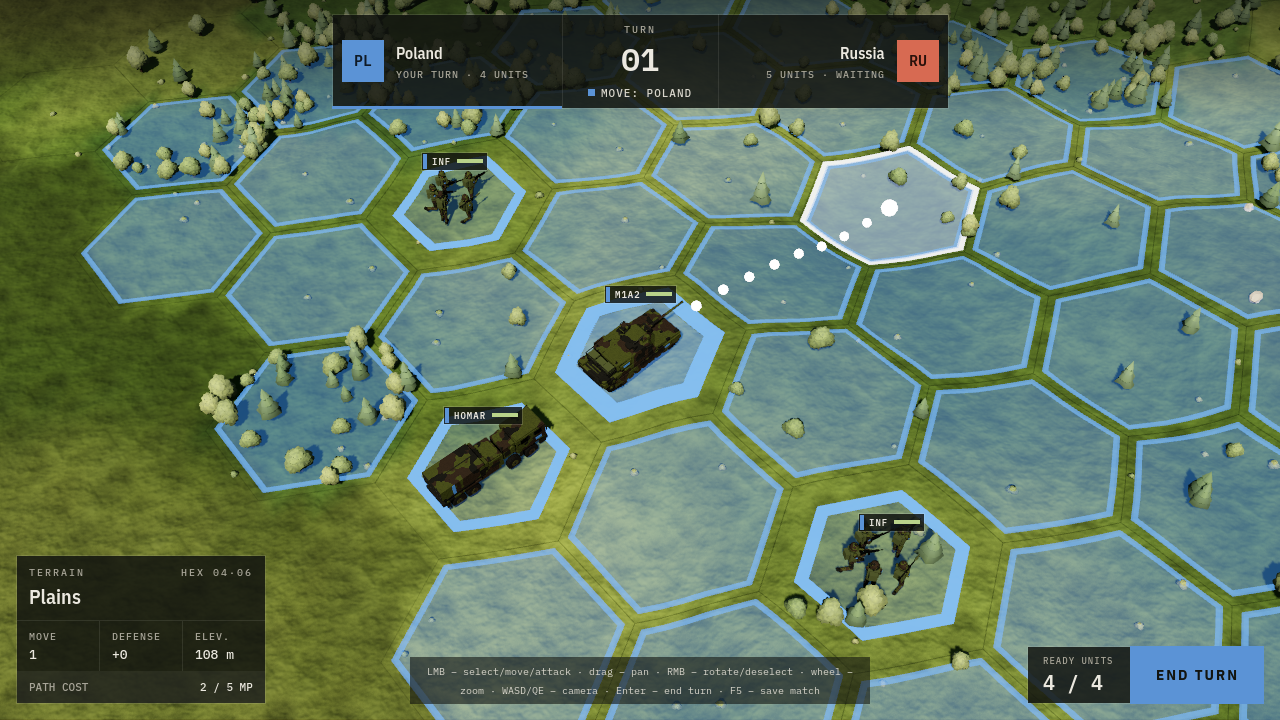
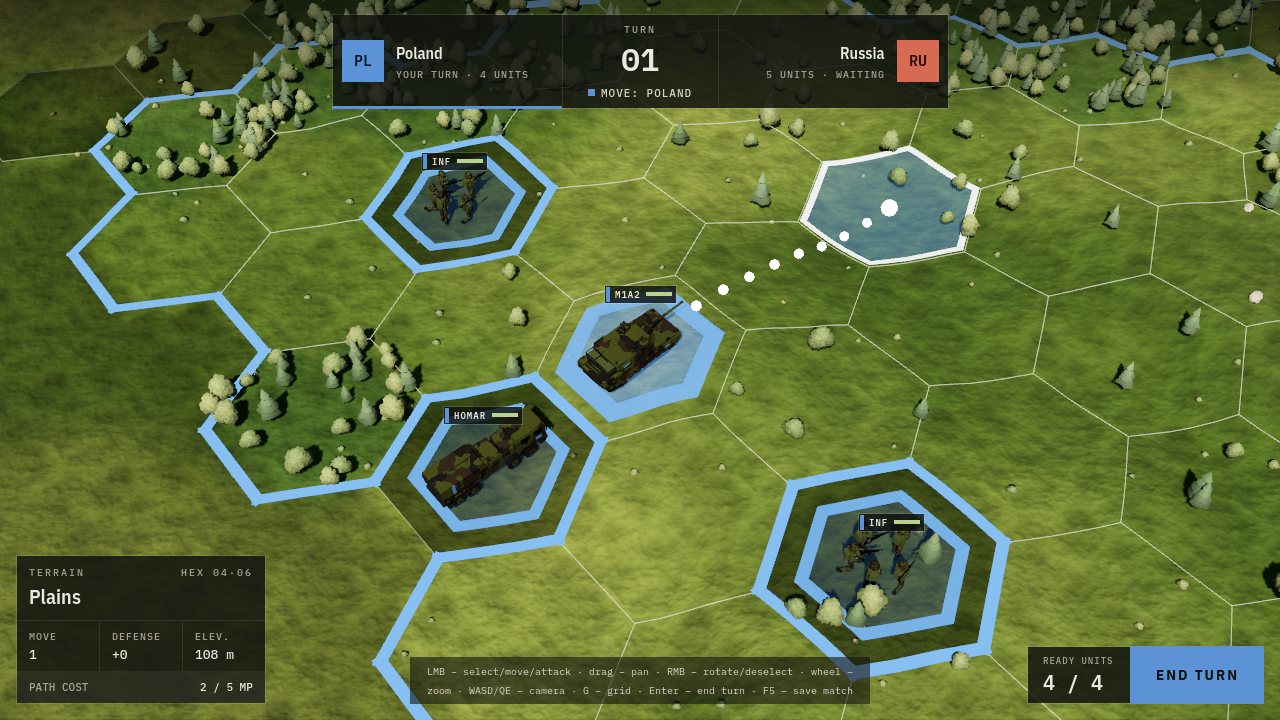
TASK-049: reach outline, outside dim, hover-only fill, faint fading grid (G toggle); playtested, done

diff --git a/docs/tasks/TASK-049-overlay-readability.md b/docs/tasks/TASK-049-overlay-readability.md
@@ -1,6 +1,6 @@
 # TASK-049: Overlay readability – reach outline, dim outside, hover-only fill, faint fading grid
 
-- **Status**: ready
+- **Status**: done
 - **Layers**: presentation (`map_view.gd`, `overlay_geometry.gd`, `unit_view.gd` marker values, `battle_controller` key), tests
 - **Depends on**: – (TASK-017 overlays and the TASK-011 range outline are done). First task of the realism track (see BACKLOG "Visual realism").
 - **Model**: sonnet
@@ -28,15 +28,15 @@ Today every reachable tile gets a 0.9-scale wash (alpha 0.2) plus its own ring (
 
 ## Acceptance criteria (testable)
 
-- [ ] `OverlayGeometry.grid_alpha`: `(7, false) == 0.16`, `(46, false) == 0.05`, `(26.5, false) == 0.105` (±0.001), `(100, false) == 0.05`, `(3, false) == 0.16`, `(7, true) == 0.24`.
-- [ ] `MapView.show_reach(coords, color, unit_tile)` builds the outline from `boundary_edges(coords + [unit_tile])`: for a unit in the middle of a 3×3 plains fixture with its 6 neighbours passed as reach (radius-1 hex area = 7 tiles), the outline has exactly 18 boundary edges; the reach wash mesh and per-tile ring meshes no longer exist (no `_reach_fill`/`_reach_ring` instances with geometry).
-- [ ] The dim mesh covers every land tile outside `reach ∪ {unit tile}` and no water tile (count patches: `land_tiles − reach − 1`); it is hidden after `clear_highlights()`.
-- [ ] Hover fill: shown in the faction colour only when the hovered tile is in the current reach; no fill for tiles outside reach or without a selection; the white ring is shown in all cases as before.
-- [ ] Grid mode: pressing G (simulated `InputEventKey`) switches `auto → off → auto`; in `off` the grid instance is hidden; in `auto` its material alpha equals `grid_alpha(camera distance, has selection)`.
-- [ ] Grid lines have no vertices inside water tiles.
-- [ ] Existing overlay tests pass (update the ones that asserted per-tile reach rings).
-- [ ] Agent visual check: `SCREENSHOT_SELECT_UNIT=1 tools/screenshot.sh .screenshots/reach.png --frames=20` – one continuous blue outline around the reachable area, terrain inside it clearly visible (grass, trees), outside slightly darker; no dark strips between hexes.
-- [ ] Re-render `docs/images/gameplay.png` with `tools/readme_screenshot.sh`, Read it, commit it with the change.
+- [x] `OverlayGeometry.grid_alpha`: `(7, false) == 0.16`, `(46, false) == 0.05`, `(26.5, false) == 0.105` (±0.001), `(100, false) == 0.05`, `(3, false) == 0.16`, `(7, true) == 0.24`.
+- [x] `MapView.show_reach(coords, color, unit_tile)` builds the outline from `boundary_edges(coords + [unit_tile])`: for a unit in the middle of a 3×3 plains fixture with its 6 neighbours passed as reach (radius-1 hex area = 7 tiles), the outline has exactly 18 boundary edges; the reach wash mesh and per-tile ring meshes no longer exist (no `_reach_fill`/`_reach_ring` instances with geometry).
+- [x] The dim mesh covers every land tile outside `reach ∪ {unit tile}` and no water tile (count patches: `land_tiles − reach − 1`); it is hidden after `clear_highlights()`.
+- [x] Hover fill: shown in the faction colour only when the hovered tile is in the current reach; no fill for tiles outside reach or without a selection; the white ring is shown in all cases as before.
+- [x] Grid mode: pressing G (simulated `InputEventKey`) switches `auto → off → auto`; in `off` the grid instance is hidden; in `auto` its material alpha equals `grid_alpha(camera distance, has selection)`.
+- [x] Grid lines have no vertices inside water tiles.
+- [x] Existing overlay tests pass (update the ones that asserted per-tile reach rings).
+- [x] Agent visual check: `SCREENSHOT_SELECT_UNIT=1 tools/screenshot.sh .screenshots/reach.png --frames=20` – one continuous blue outline around the reachable area, terrain inside it clearly visible (grass, trees), outside slightly darker; no dark strips between hexes.
+- [x] Re-render `docs/images/gameplay.png` with `tools/readme_screenshot.sh`, Read it, commit it with the change.
 
 ## Playtest (for the human)
 
@@ -61,4 +61,10 @@ Today every reachable tile gets a 0.9-scale wash (alpha 0.2) plus its own ring (
 
 ## Implementation notes
 
-_Filled in by the agent when done._
+- `OverlayGeometry.grid_alpha()` (+ `GRID_ALPHA_NEAR/FAR`, `GRID_SELECTED_FACTOR`); `MapView.show_reach(coords, color, unit_tile)` draws only the `boundary_edges` outline (`_reach_line`) and a merged `_dim` mesh over land outside the reach; per-tile reach wash/rings removed. Hover wash only inside the current reach (refreshed when the selection changes under a still cursor).
+- Grid: `#e9eddc`, water tiles contribute no grid edges (land/water shore edges are still drawn by the land side), alpha via `MapView.set_camera_distance()` (called from `BattleController._process`, early-out when unchanged – only a material alpha changes), `cycle_grid_mode()` auto/off.
+- G is handled in `BattleController._unhandled_input` before the turn/animation gate (like F5); ignored with Ctrl/Alt/Meta held or while a `LineEdit`/`TextEdit` has focus. `CameraRig.distance()` getter added. HUD controls hint now lists "G – grid".
+- Unit base marker: fill 0.06, ring 0.8.
+- Tests: `test_overlay_geometry.gd` (grid_alpha), new `test_map_view_overlays.gd` (18-edge outline, only outline + dim added, dim count/hide, hover fill, grid alpha/mode, no grid in water, G key). The text-focus case is not unit-tested (needs a viewport in the tree).
+- Visual check: one continuous outline, terrain inside stays visible.
+- Playtest tuning (2026-10-21, human: "the range is too weak, barely visible"): outline width 0.06 → **0.1** and alpha 0.85 → **1.0**; dim alpha 0.22 → **0.6** and lift 0.02 → **0.035**. Measured in the screenshot: blending is in linear space, so 0.4 only took the bright outside plains (96 → 67) down to about the level of the wooded tiles inside the outline (80), and the contrast disappeared. At 0.6 the outside is 50 against 80 inside. The Design table above keeps the original spec values.

diff --git a/docs/MANUAL.md b/docs/MANUAL.md
@@ -78,7 +78,7 @@ The units themselves wear their army's camouflage: Polish vehicles and soldiers 
 - Moving next to an enemy does not stop you; there are no zones of control.
 - **After a unit attacks, it can't move any more this turn.** Move first, then attack.
 
-When a unit is selected, the tiles it can reach are tinted in your side's colour. Hovering a reachable tile shows the path as a line of dots, and the terrain panel shows the path cost, e.g. `2 / 3 MP` (cost / movement points left).
+When a unit is selected, the area it can reach is outlined in your side's colour and the rest of the map is slightly darkened. Hovering a reachable tile tints it and shows the path as a line of dots, and the terrain panel shows the path cost, e.g. `2 / 3 MP` (cost / movement points left).
 
 ## 7. Combat
 
@@ -153,6 +153,8 @@ Russia is played by a simple computer opponent that follows the same rules as yo
 - **Bottom centre**: a one-line summary of the controls (see Controls).
 - **Unit card**: hover any unit (yours or the enemy's) to see its class (Infantry, Tank or Rocket Artillery) with the unit's real name below it (e.g. M1A2 SEPv3 Abrams). In the Polish version the class and the squad names are translated (Drużyna piechoty zmechanizowanej, Drużyna zmotoryzowana); vehicle names stay as they are. The card also shows the unit's side, HP, Attack, Defense, Moves (left / per turn) and Range. Defense includes the terrain bonus of its tile, e.g. `5 (3+2)` on hills. The status line says "Ready", "Ready · already attacked", "Done this turn" or "Enemy unit".
 - **Terrain panel** (bottom left): the hovered tile's terrain, hex position (column·row), movement cost, defense bonus and elevation, plus the path cost when you have a unit selected and the tile is reachable.
+- **Selection**: selecting a unit outlines the area it can reach in your colour and slightly darkens the rest of the map; the tile under the cursor is tinted when the unit can move there. Water is never darkened, and unreachable tiles inside the area (such as a lake) get their own outline.
+- **Hex grid**: a faint light grid marks the hexes on land (not over water). It fades as you zoom out and is a little stronger while a unit is selected. Press **G** to hide or show it.
 - **Done units**: a unit that can neither move nor attack any more this turn has a dimmed tag.
 - **Rocket artillery range**: selecting your rocket artillery outlines all tiles within its range in amber. With nothing selected, hovering any rocket artillery (yours or the enemy's) shows its range, so you can see where it can hit.
 
@@ -161,17 +163,18 @@ Russia is played by a simple computer opponent that follows the same rules as yo
 | Action | Control |
 |---|---|
 | Select your unit | Left-click it |
-| Move the selected unit | Left-click a highlighted tile |
+| Move the selected unit | Left-click a tile inside the outlined area |
 | Attack with the selected unit | Left-click a red-marked enemy |
 | Deselect | Right-click, or Esc |
 | End turn | Enter, or the End turn button |
 | Pan the camera | Left-drag, or W A S D / arrow keys |
 | Rotate the camera | Right-drag, or Q / E |
 | Zoom | Mouse wheel (the camera tilts lower as you zoom in) |
+| Show / hide the hex grid | G (the grid fades as you zoom out) |
 | Save the match record | F5 |
 
 - Clicks on tiles you can't move to and enemies you can't attack are ignored.
-- While animations are playing or the enemy is moving, clicks and keys (except camera controls and F5) are ignored, not queued.
+- While animations are playing or the enemy is moving, clicks and keys (except camera controls, G and F5) are ignored, not queued.
 - **F5** saves a record of the match so far (the moves made, for reporting bugs); the game also does this automatically when the battle ends. There is no way to load a saved match in the game yet. Match records saved by earlier versions of the game (before the real Polish and Russian units) can no longer be replayed: they are refused with a clear "unsupported match record version" message instead of replaying a different battle.
 
 ## 12. Not in the game yet

diff --git a/docs/tasks/BACKLOG.md b/docs/tasks/BACKLOG.md
@@ -55,7 +55,7 @@ Rows after TASK-001 are in priority order (top = next to implement).
 | [TASK-034](TASK-034-unit-portraits.md) | Unit portraits in the hover popup (`SubViewport`) | ready | **TASK-021** (soft: TASK-031 … TASK-033) |
 | [TASK-046](TASK-046-blast-shields.md) | `blast_shields`: cab window shields lowered before a volley (Uragan) | ready | **TASK-045**; Uragan research must confirm the shields |
 | [TASK-048](TASK-048-gun-recoil.md) | `gun_recoil`: barrel recoil + muzzle flash on direct fire | idea | **TASK-047**; look at 047 in game first |
-| [TASK-049](TASK-049-overlay-readability.md) | Overlay readability: reach outline, dim outside, hover-only fill, faint fading grid (G toggle) | ready | – |
+| [TASK-049](TASK-049-overlay-readability.md) | Overlay readability: reach outline, dim outside, hover-only fill, faint fading grid (G toggle) | done | – |
 | [TASK-050](TASK-050-graphics-quality.md) | Graphics quality presets LOW/HIGH, auto-detected, `--quality=` override | ready | – |
 | [TASK-051](TASK-051-lighting-atmosphere-v3.md) | Lighting & atmosphere v3: AgX, lower sun, aerial perspective, SSIL, subtle glow, colour-grading LUT | ready | soft: TASK-050 |
 | [TASK-052](TASK-052-camera-horizon.md) | Camera v2: lower pitch with horizon, top-down when far, backdrop terrain beyond the map | ready | soft: TASK-051, TASK-050 |
